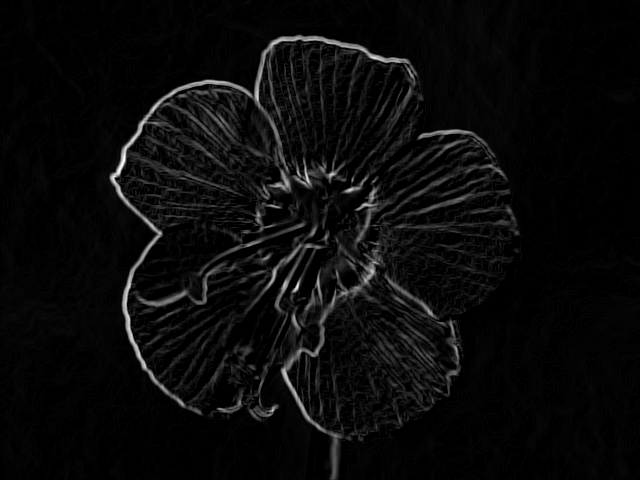
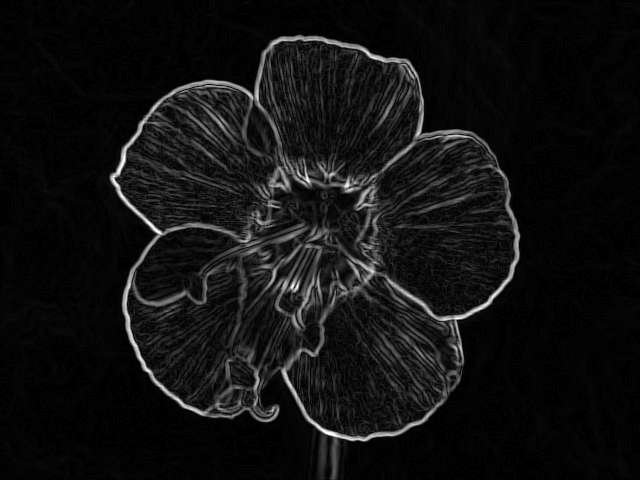
Corrected my over eager image generation

diff --git a/prototype/experiments/GradientCalculations/Program.cs b/prototype/experiments/GradientCalculations/Program.cs
@@ -1,5 +1,6 @@
 using System;
 using System.Drawing;
+using System.Linq;
 using System.Runtime.CompilerServices;
 
 namespace GradientCalculations
@@ -38,12 +39,15 @@ namespace GradientCalculations
                     Matrix kernel = BuildKernel(j, i, imageGrid);
                     double xConvolution = Matrix.Convolution(gradXMatrix, kernel);
                     double yConvolution = Matrix.Convolution(gradYMatrix, kernel);
-                    xConvolution = xConvolution > 0 ? (xConvolution > 255 ? 255 : xConvolution) : 0;
-                    yConvolution = yConvolution > 0 ? (yConvolution > 255 ? 255 : yConvolution) : 0;
 
                     gradXArray[i, j] = xConvolution;
                     gradYArray[i, j] = yConvolution;
 
+
+                    // only needed for image
+                    xConvolution = xConvolution > 0 ? (xConvolution > 255 ? 255 : xConvolution) : 0;
+                    yConvolution = yConvolution > 0 ? (yConvolution > 255 ? 255 : yConvolution) : 0;
+                    
                     gradX.SetPixel(j, i, Color.FromArgb(255, (int)xConvolution, (int)xConvolution, (int)xConvolution));
                     gradY.SetPixel(j, i, Color.FromArgb(255, (int)yConvolution, (int)yConvolution, (int)yConvolution));
                 }
@@ -64,9 +68,12 @@ namespace GradientCalculations
                 for (int j = 0; j < image.Width; j++)
                 {
                     double G = Math.Sqrt(Math.Pow(gradXArray[i, j], 2) + Math.Pow(gradYArray[i, j], 2));
+                    bigGArray[i, j] = G;
+
+                    // only for the image
                     G = G > 0 ? (G > 255 ? 255 : G) : 0;
                     bigGImage.SetPixel(j, i, Color.FromArgb(255, (int)G, (int)G, (int)G));
-                    bigGArray[i, j] = G;
+                    
 
                     double theta = Math.Atan2(gradYArray[i, j], gradXArray[i, j]);
                     thetaArray[i, j] = theta;
@@ -74,6 +81,21 @@ namespace GradientCalculations
             }
 
             bigGImage.Save("bigG.jpg");
+            double max = thetaArray.Cast<double>().Max();
+            double min = thetaArray.Cast<double>().Min();
+            // begin edge thining
+            for (int i = 0; i < image.Height; i++)
+            {
+                for (int j = 0; j < image.Width; j++)
+                {
+                    Matrix kernelMatrix = BuildKernel(j, i, bigGArray);
+
+                    if (thetaArray[i, j] > 0 && thetaArray[i, j] < 45)
+                    {
+
+                    }
+                }
+            }
         }
 
         public static Matrix BuildKernel(int x, int y, double[,] image)
